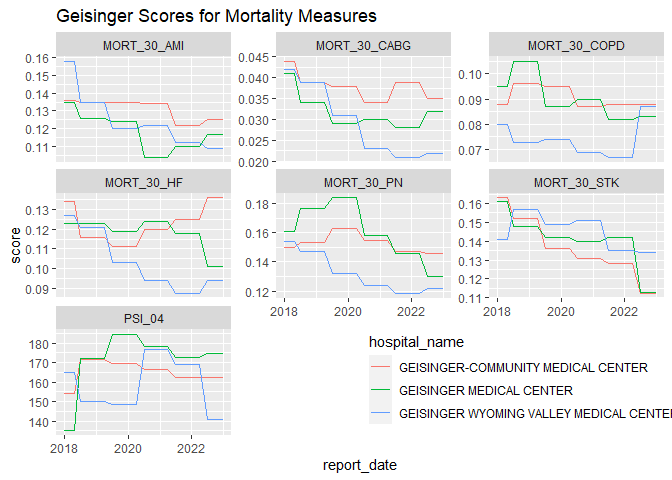
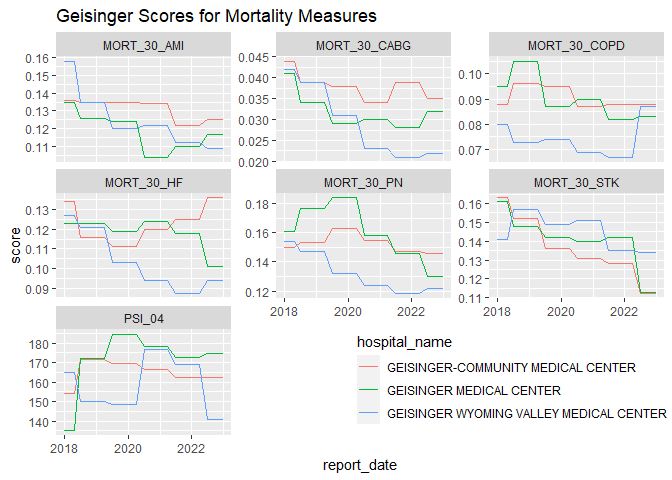
shifted plot legend in README

Changed region(s): [[0.5312, 0.6875, 1.0, 0.875]]

diff --git a/README.md b/README.md
@@ -127,7 +127,7 @@ mortality_history_df %>%
              group = hospital_name, color = hospital_name)) +
   geom_line() +
   facet_wrap(~measure_id, scales = "free_y") +
-  theme(legend.position = c(0.77, 0.15)) +
+  theme(legend.position = c(0.75, 0.15)) +
   ggtitle("Geisinger Scores for Mortality Measures")
 ```
 
